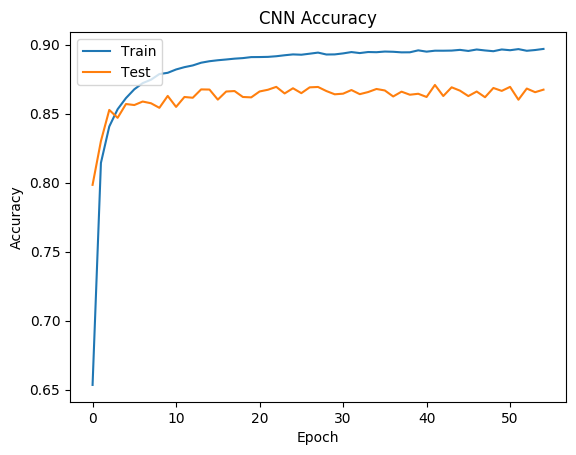
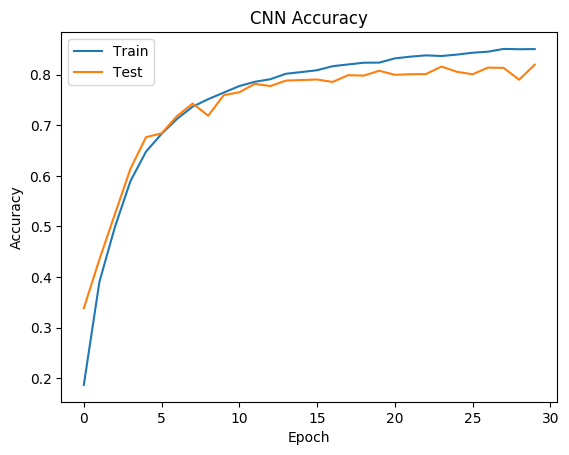
Smaller CNN. 84% train 80% dev 61% test??
That seems like a huge gap between dev and test such that I'm not sure I
trust the code that does the test accuracy.

I'm going to run a huge network again tonight.

diff --git a/train_cnn_on_waveform.py b/train_cnn_on_waveform.py
@@ -31,9 +31,9 @@ start_time = time.time()
 # These control how much data we use for train/dev We have 1047 minutes
 # available per speaker in the train/dev set on disk, so setting this number 
 # higher than that is a no-op.
-MINUTES_PER_SPEAKER = 5
+MINUTES_PER_SPEAKER = 20
 # We have 20 speakers but can decrease this to train on just a subset.
-NUM_SPEAKERS = 10
+NUM_SPEAKERS = 20
 
 top_20 = [
     # This is speaker 1 and the list is always in this order.
@@ -86,7 +86,9 @@ assert train_dev_labels.shape == (NUM_SAMPLES, NUM_SPEAKERS), train_dev_labels.s
 # TODO(dgrogan): We'll need a proper test set.
 (test_set_inputs, test_set_labels) = generate_raw_dataset_from_mp3s_in_parallel(
         NUM_SPEAKERS, minutes_per_speaker=10, directory="noisy_top_20")
+test_set_inputs = np.expand_dims(test_set_inputs, axis=-1)
 
+assert len(test_set_inputs.shape) == 3, test_set_inputs.shape
 
 # %%
 
@@ -128,28 +130,30 @@ with shape  (batch, features, steps).
 
 # Keras
 model = Sequential()
-model.add(layers.Conv1D(filters=30, kernel_size=3, strides=2,
+model.add(layers.Conv1D(filters=15, kernel_size=3, strides=2,
                         activation=None,
                         input_shape=(X_train.shape[1], 1)))
-#model.add(layers.LeakyReLU(alpha=0.1))
-model.add(layers.Conv1D(filters=30, kernel_size=3, strides=2,
+model.add(layers.LeakyReLU(alpha=0.1))
+model.add(layers.Conv1D(filters=18, kernel_size=3, strides=2,
+                        activation=None, kernel_initializer='glorot_normal'))
+model.add(layers.LeakyReLU(alpha=0.1))
+model.add(layers.Conv1D(filters=20, kernel_size=3, strides=2,
+                        activation='relu', kernel_initializer='glorot_normal'))
+model.add(layers.Conv1D(filters=22, kernel_size=3, strides=2,
+                        activation='relu', kernel_initializer='glorot_normal'))
+model.add(layers.Conv1D(filters=25, kernel_size=3, strides=2,
                         activation='relu', kernel_initializer='glorot_normal'))
 model.add(layers.Conv1D(filters=30, kernel_size=3, strides=2,
                         activation='relu', kernel_initializer='glorot_normal'))
-model.add(layers.Conv1D(filters=30, kernel_size=3, strides=2,
+model.add(layers.Conv1D(filters=35, kernel_size=3, strides=2,
                         activation='relu', kernel_initializer='glorot_normal'))
-model.add(layers.Conv1D(filters=30, kernel_size=3, strides=2,
+model.add(layers.Conv1D(filters=40, kernel_size=3, strides=2,
                         activation='relu', kernel_initializer='glorot_normal'))
-model.add(layers.Conv1D(filters=30, kernel_size=3, strides=2,
+model.add(layers.Conv1D(filters=40, kernel_size=3, strides=2,
                         activation='relu', kernel_initializer='glorot_normal'))
-model.add(layers.Conv1D(filters=30, kernel_size=3, strides=2,
-                        activation='relu', kernel_initializer='glorot_normal'))
-model.add(layers.Conv1D(filters=30, kernel_size=3, strides=2,
-                        activation='relu', kernel_initializer='glorot_normal'))
-model.add(layers.Conv1D(filters=30, kernel_size=3, strides=2,
-                        activation='relu', kernel_initializer='glorot_normal'))
-model.add(layers.Conv1D(filters=30, kernel_size=3, strides=2,
-                        activation='relu', kernel_initializer='glorot_uniform'))
+model.add(layers.Conv1D(filters=40, kernel_size=3, strides=2,
+                        activation=None, kernel_initializer='glorot_uniform'))
+model.add(layers.LeakyReLU(alpha=0.01))
 model.add(layers.Flatten())
 model.add(layers.Dense(NUM_SPEAKERS, activation='softmax'))
 
